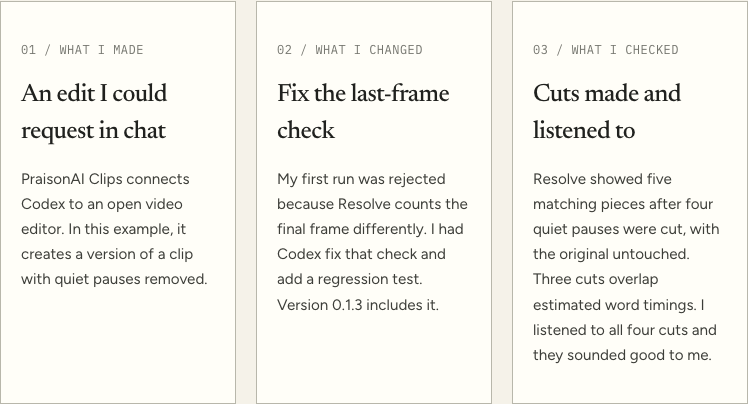
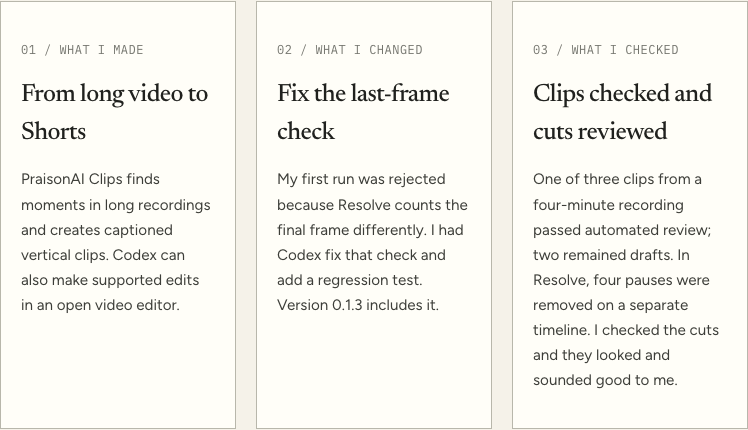
Align challenge evidence with submitted entry

diff --git a/docs/built-with-codex.md b/docs/built-with-codex.md
@@ -2,13 +2,15 @@
 
 **This project was built with OpenAI Codex**, under Mervin Praison’s direction—from implementation and debugging to tests, documentation, and deployment. It was prepared for the community-led [Cambridge Codex Community Challenge](https://cambridge-codex-workshop-guide.lilizhu.chatgpt.site/challenges.html).
 
-The everyday task: remove quiet pauses from a short video without manually cutting every gap. I asked Codex to help while DaVinci Resolve was open, then reviewed the timeline it created.
+PraisonAI Clips turns long recordings into captioned vertical Shorts: it transcribes speech, describes frames from across the recording, selects promising moments, renders clips and checks the results. The latest GitHub source also trims detected quiet pauses during rendering; this newer feature is not yet in the PyPI package. Users can then import clips into DaVinci Resolve or Kdenlive and ask Codex to make supported live edits.
+
+The demonstrated everyday task: remove quiet pauses from a short video. I asked Codex to help while DaVinci Resolve was open, then reviewed the separate timeline it created. The broader build brief in my submission summarises several requests rather than quoting one original prompt.
 
 <div class="challenge-facts" markdown>
 <div markdown>
 <span class="step">01 / WHAT I MADE</span>
-### An edit I could request in chat
-PraisonAI Clips connects Codex to an open video editor. In this example, it creates a version of a clip with quiet pauses removed.
+### From long video to Shorts
+PraisonAI Clips finds moments in long recordings and creates captioned vertical clips. Codex can also make supported edits in an open video editor.
 </div>
 <div markdown>
 <span class="step">02 / WHAT I CHANGED</span>
@@ -17,8 +19,8 @@ My first run was rejected because Resolve counts the final frame differently. I 
 </div>
 <div markdown>
 <span class="step">03 / WHAT I CHECKED</span>
-### Cuts made and listened to
-Resolve showed five matching pieces after four quiet pauses were cut, with the original untouched. Three cuts overlap estimated word timings. I listened to all four cuts and they sounded good to me.
+### Clips checked and cuts reviewed
+One of three clips from a four-minute recording passed automated review; two remained drafts. In Resolve, four pauses were removed on a separate timeline. I checked the cuts and they looked and sounded good to me.
 </div>
 </div>
 
@@ -36,7 +38,9 @@ This screen recording shows the actual request and the resulting Resolve timelin
 
 The pause-removal guard rejected the clip when Resolve reported the final media frame inclusively. [The follow-up fix](https://github.com/MervinPraison/praisonai-clips/commit/f67d591b20d2fcdf2380208455af5078916a125e) accepts that boundary and adds a regression test. The recording predates the fix; it does not show a clean end-to-end run of the updated command. Version 0.1.3 includes the fix.
 
-### The request
+### The live-editing request
+
+The submission's broader build brief summarises the product workflow. For the Resolve edit shown here, the exact request was:
 
 > Your shorts is there in the timeline, please remove the silences.
 
@@ -55,7 +59,7 @@ The chart compares the four removed ranges with the source audio. Blue shows the
 | 3 | 227.500–227.667 s | −33.8 dBFS | No estimated word overlaps. |
 | 4 | 235.233–235.333 s | −36.7 dBFS | Estimated timing of “but” overlaps; on-screen text also advances across the cut. |
 
-Word timestamps are estimates and can include pauses. An overlap flags a risk, not proof that speech was removed; a quiet waveform cannot prove speech is absent. I listened to the four cuts and they sounded good to me. Five-second visual observations miss events between samples, and before-and-after frames do not show everything removed, so the visual timing still needs inspection before accepting the edit.
+Word timestamps are estimates and can include pauses. An overlap flags a risk, not proof that speech was removed; a quiet waveform cannot prove speech is absent. I checked the cuts and they looked and sounded good to me. Five-second visual observations miss events between samples, and before-and-after frames do not show everything removed; the automated evidence is not a continuous visual or audio review.
 
 ## Watch the walkthrough
 
@@ -84,7 +88,7 @@ The earlier first-run screen explained the workflow, but the upload lived in a s
 | --- | --- | --- |
 | Local automated suite | [Historical verification snapshot](assets/challenge/verification.json) and [test source](https://github.com/MervinPraison/praisonai-clips/tree/main/tests) | The snapshot records an earlier macOS run on 29 October 2026, not the current test count. Optional runtime tests are skipped when their dependencies are absent. |
 | End-to-end render, repair, and resume | [Pipeline regression](https://github.com/MervinPraison/praisonai-clips/blob/main/tests/test_pipeline.py) uses real FFmpeg output and a clearly labelled synthetic API backend | This test checks application behavior without paid provider calls. |
-| Real-video processing | A four-minute validation produced three captioned candidates; one passed review and two remained uncertain drafts. [Read the report](reference/validation-report.md). | A recorded engineering run, rather than a general quality or acceptance-rate claim. |
+| Real-video processing | A four-minute validation produced three captioned candidates; one passed automated review and two remained uncertain drafts. [Read the report](reference/validation-report.md). | A recorded engineering run, rather than a general quality or acceptance-rate claim; this run predates the new pipeline pause-trimming feature. |
 | First-run behavior | [Onboarding regressions](https://github.com/MervinPraison/praisonai-clips/blob/main/tests/test_onboarding.py) check missing setup, missing input, invalid paths, and the example bundle’s explicit file list | No paid request is started by these tests. |
 | Public website | The custom domain serves the example video, documentation, and code links over HTTPS | GitHub Pages hosts static pages. Process personal recordings in the local Streamlit app. |
 | Native editor framing | [Kdenlive](KDENLIVE_LIVE_CONTROL.md) and [Resolve](RESOLVE_LIVE_CONTROL.md) reports record framing changes and restoration | Tested workflows are version-dependent; broader operations require separate validation. |

diff --git a/docs/index.md b/docs/index.md
@@ -51,7 +51,7 @@ praisonai-clips studio
 <figure class="live-edit-demo" id="silence-review">
 <div class="demo-heading"><span>HOW THE CUTS WERE CHECKED</span><span>4 PAUSES</span></div>
 <img src="assets/live-edit/resolve-cut-waveforms.png" alt="Four source audio waveforms around the removed ranges, marked in red. The transcript estimates overlap words on cuts one, two and four." loading="lazy">
-<figcaption>Blue shows the source waveform; red marks the four ranges removed in the demo. The audio in those ranges is quieter than the surrounding audio. Three cuts overlap estimated word timings, and one crosses an on-screen text animation. Mervin listened to the four cuts and reported they sounded good; the visual timing still needs inspection. <a href="built-with-codex/#checking-the-cuts">See the cut-by-cut evidence ↗</a></figcaption>
+<figcaption>Blue shows the source waveform; red marks the four ranges removed in the demo. The audio in those ranges is quieter than the surrounding audio. Three cuts overlap estimated word timings, and one crosses an on-screen text animation. Mervin checked the cuts and reported they looked and sounded good. <a href="built-with-codex/#checking-the-cuts">See the cut-by-cut evidence ↗</a></figcaption>
 </figure>
 <div class="section-heading" id="source-evidence"><span class="eyebrow">SEE THE EVIDENCE TOGETHER</span><span>Three views. One source timeline.</span></div>
 <p>After uploading a video or choosing a local path, start processing, select the recording, and open <strong>Source evidence</strong>. Choose a time window to compare:</p>
